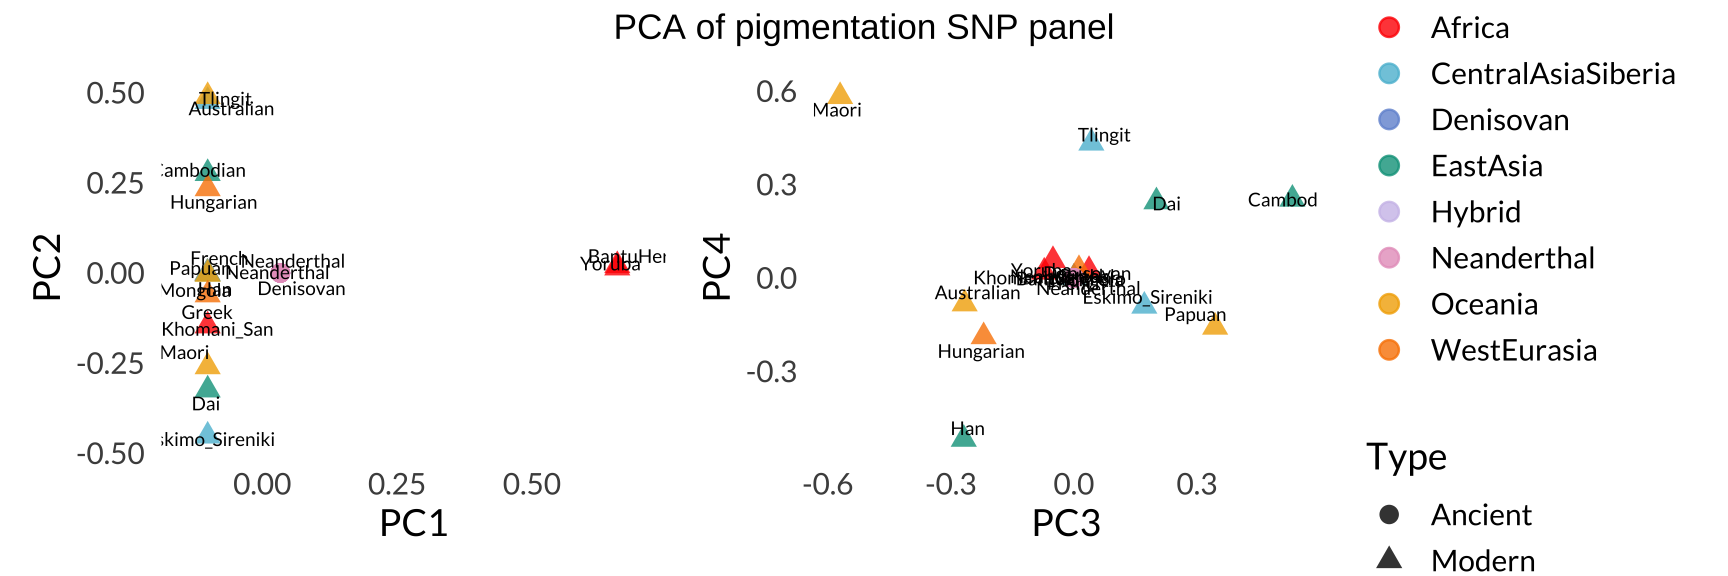
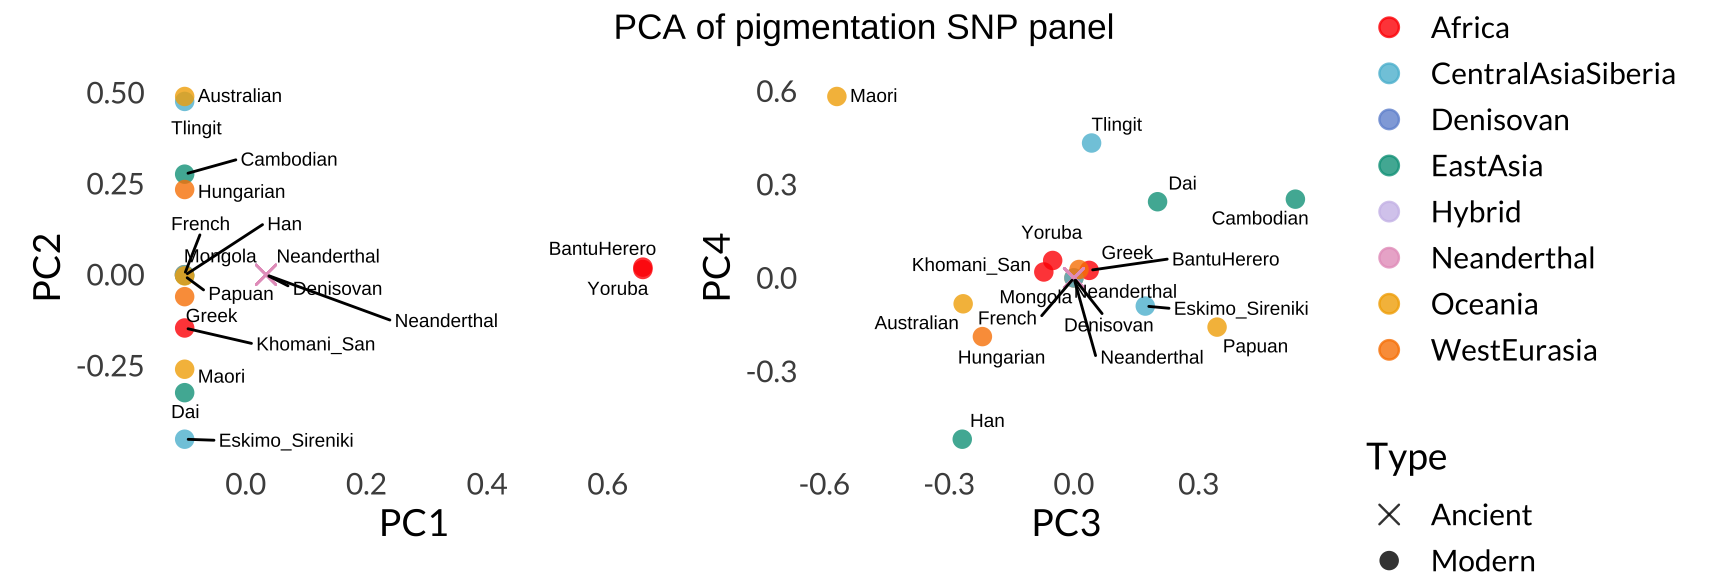
Build site.

diff --git a/docs/pca.html b/docs/pca.html
@@ -395,7 +395,7 @@ class="glyphicon glyphicon-ok text-success" aria-hidden="true"></span>
 <div class="tab-content">
 <div id="summary" class="tab-pane fade in active">
 <p>
-<strong>Last updated:</strong> 2026-04-14
+<strong>Last updated:</strong> 2026-04-15
 </p>
 <p>
 <strong>Checks:</strong> <span
@@ -526,15 +526,15 @@ project makes it easier to run your code on other machines.</p>
 <div class="panel panel-default">
 <div class="panel-heading">
 <p class="panel-title">
-<a data-toggle="collapse" data-parent="#workflowr-checks" href="#strongRepositoryversionstrongahrefhttpsgithubcomlilyhealdPAINTtreee4137296d3122515c00e1d9b43a441ea9e41cdc6targetblanke413729a">
+<a data-toggle="collapse" data-parent="#workflowr-checks" href="#strongRepositoryversionstrongahrefhttpsgithubcomlilyhealdPAINTtreef0faa1f94e441e7cc009a7a0aac43dc862386217targetblankf0faa1fa">
 <span class="glyphicon glyphicon-ok text-success"
 aria-hidden="true"></span> <strong>Repository version:</strong>
-<a href="https://github.com/lilyheald/PAINT/tree/e4137296d3122515c00e1d9b43a441ea9e41cdc6" target="_blank">e413729</a>
+<a href="https://github.com/lilyheald/PAINT/tree/f0faa1f94e441e7cc009a7a0aac43dc862386217" target="_blank">f0faa1f</a>
 </a>
 </p>
 </div>
 <div
[2 lines of base64/hex data omitted]
 class="panel-collapse collapse">
 <div class="panel-body">
 <p>
@@ -544,7 +544,7 @@ reproducibility.
 </p>
 <p>
 The results in this page were generated with repository version
-<a href="https://github.com/lilyheald/PAINT/tree/e4137296d3122515c00e1d9b43a441ea9e41cdc6" target="_blank">e413729</a>.
+<a href="https://github.com/lilyheald/PAINT/tree/f0faa1f94e441e7cc009a7a0aac43dc862386217" target="_blank">f0faa1f</a>.
 See the <em>Past versions</em> tab to see a history of the changes made
 to the R Markdown and HTML files.
 </p>
@@ -682,6 +682,40 @@ Message
 </tr>
 </thead>
 <tbody>
+<tr>
+<td>
+Rmd
+</td>
+<td>
+<a href="https://github.com/lilyheald/PAINT/blob/f0faa1f94e441e7cc009a7a0aac43dc862386217/analysis/pca.Rmd" target="_blank">f0faa1f</a>
+</td>
+<td>
+Lily Heald
+</td>
+<td>
+2026-04-15
+</td>
+<td>
+Change point shape
+</td>
+</tr>
+<tr>
+<td>
+html
+</td>
+<td>
+<a href="https://rawcdn.githack.com/lilyheald/PAINT/d678f2c0f0b3654be00b90a2082066c20360e9de/docs/pca.html" target="_blank">d678f2c</a>
+</td>
+<td>
+Lily Heald
+</td>
+<td>
+2026-04-14
+</td>
+<td>
+Build site.
+</td>
+</tr>
 <tr>
 <td>
 Rmd
@@ -1243,6 +1277,17 @@ Date
 <tbody>
 <tr>
 <td>
+<a href="https://github.com/lilyheald/PAINT/blob/d678f2c0f0b3654be00b90a2082066c20360e9de/docs/figure/pca.Rmd/plot-1.png" target="_blank">d678f2c</a>
+</td>
+<td>
+Lily Heald
+</td>
+<td>
+2026-04-14
+</td>
+</tr>
+<tr>
+<td>
 <a href="https://github.com/lilyheald/PAINT/blob/f3e6c69a88acdd29a36904733d19e2a608e728d3/docs/figure/pca.Rmd/plot-1.png" target="_blank">f3e6c69</a>
 </td>
 <td>
@@ -1366,6 +1411,19 @@ Lily Heald
 </table>
 </div>
 </div>
+<p>The PCA of whole-genome SNPs shows clear population structure. In
+PC1-PC2, there is a strong separation between African and non-African
+populations along PC1. Within non-Africans, Europeans (WestEurasia),
+East Asians, and Oceanians form distinct clusters along PC2. Archaic
+individuals cluster near non-Africans on PC1 and form a distinct cluster
+on PC2. PC3 and PC4 show that Africans separate along PC4, with Yoruba
+and Bantu clustering together and Khomani San falling on the opposite
+end of the axis. Oceanians are clearly distinct along PC3. East Asians
+cluster tightly, distinct from both Oceanians and Europeans. Again,
+archaic individuals cluster near non-African populations.</p>
+<p>Whole-genome SNP data captures population history and demographic
+structure, producing clear clustering by continental ancestry and
+reflecting introgression.</p>
 </div>
 <div id="pigmentation-subset" class="section level1">
 <h1>Pigmentation subset</h1>
@@ -1392,6 +1450,17 @@ Date
 </tr>
 </thead>
 <tbody>
+<tr>
+<td>
+<a href="https://github.com/lilyheald/PAINT/blob/d678f2c0f0b3654be00b90a2082066c20360e9de/docs/figure/pca.Rmd/plot2-1.png" target="_blank">d678f2c</a>
+</td>
+<td>
+Lily Heald
+</td>
+<td>
+2026-04-14
+</td>
+</tr>
 <tr>
 <td>
 <a href="https://github.com/lilyheald/PAINT/blob/f3e6c69a88acdd29a36904733d19e2a608e728d3/docs/figure/pca.Rmd/plot2-1.png" target="_blank">f3e6c69</a>
@@ -1473,6 +1542,13 @@ Lily Heald
 </table>
 </div>
 </div>
+<p>The PCA of pigmentation-associated SNPs shows weaker geographic
+structuring and greater overlap among populations compared to the
+genome-wide panel. In PCs 1 and 2. Most populations cluster closely near
+the origin, indicating limited differentiation captured by pigmentation
+loci alone. PC1 differentiates Bantu and Yoruba from the remaining
+samples. In PC3 and 4. There is some separation of Oceanians and East
+Asians. Archaic individuals fall with the African populations.</p>
 <br>
 <p>
 <button type="button" class="btn btn-default btn-workflowr btn-workflowr-sessioninfo" data-toggle="collapse" data-target="#workflowr-sessioninfo" style="display: block;">
@@ -1500,9 +1576,10 @@ attached base packages:
 [1] stats     graphics  grDevices utils     datasets  methods   base     
 
 other attached packages:
-[1] patchwork_1.3.2     showtext_0.9-7      showtextdb_3.0     
-[4] sysfonts_0.8.9      wesanderson_0.3.7   ggplot2_4.0.2      
-[7] dplyr_1.2.0         data.table_1.18.2.1 workflowr_1.7.2    
+ [1] ggrepel_0.9.6       patchwork_1.3.2     showtext_0.9-7     
+ [4] showtextdb_3.0      sysfonts_0.8.9      wesanderson_0.3.7  
+ [7] ggplot2_4.0.2       dplyr_1.2.0         data.table_1.18.2.1
+[10] workflowr_1.7.2    
 
 loaded via a namespace (and not attached):
  [1] sass_0.4.10        generics_0.1.4     stringi_1.8.7      digest_0.6.39     
